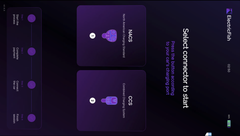
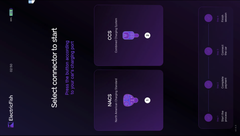
Adjusting image

diff --git a/rotate_image.py b/rotate_image.py
@@ -69,8 +69,8 @@ if __name__ == "__main__":
         print("Certifique-se de executar o script no diretório correto.")
         sys.exit(1)
     
-    # Rotacionar imagem
-    success = rotate_image(input_file, output_file, 90)
+    # Rotacionar imagem 180 graus
+    success = rotate_image(input_file, output_file, 180)
     
     if success:
         print("\n" + "="*50)
